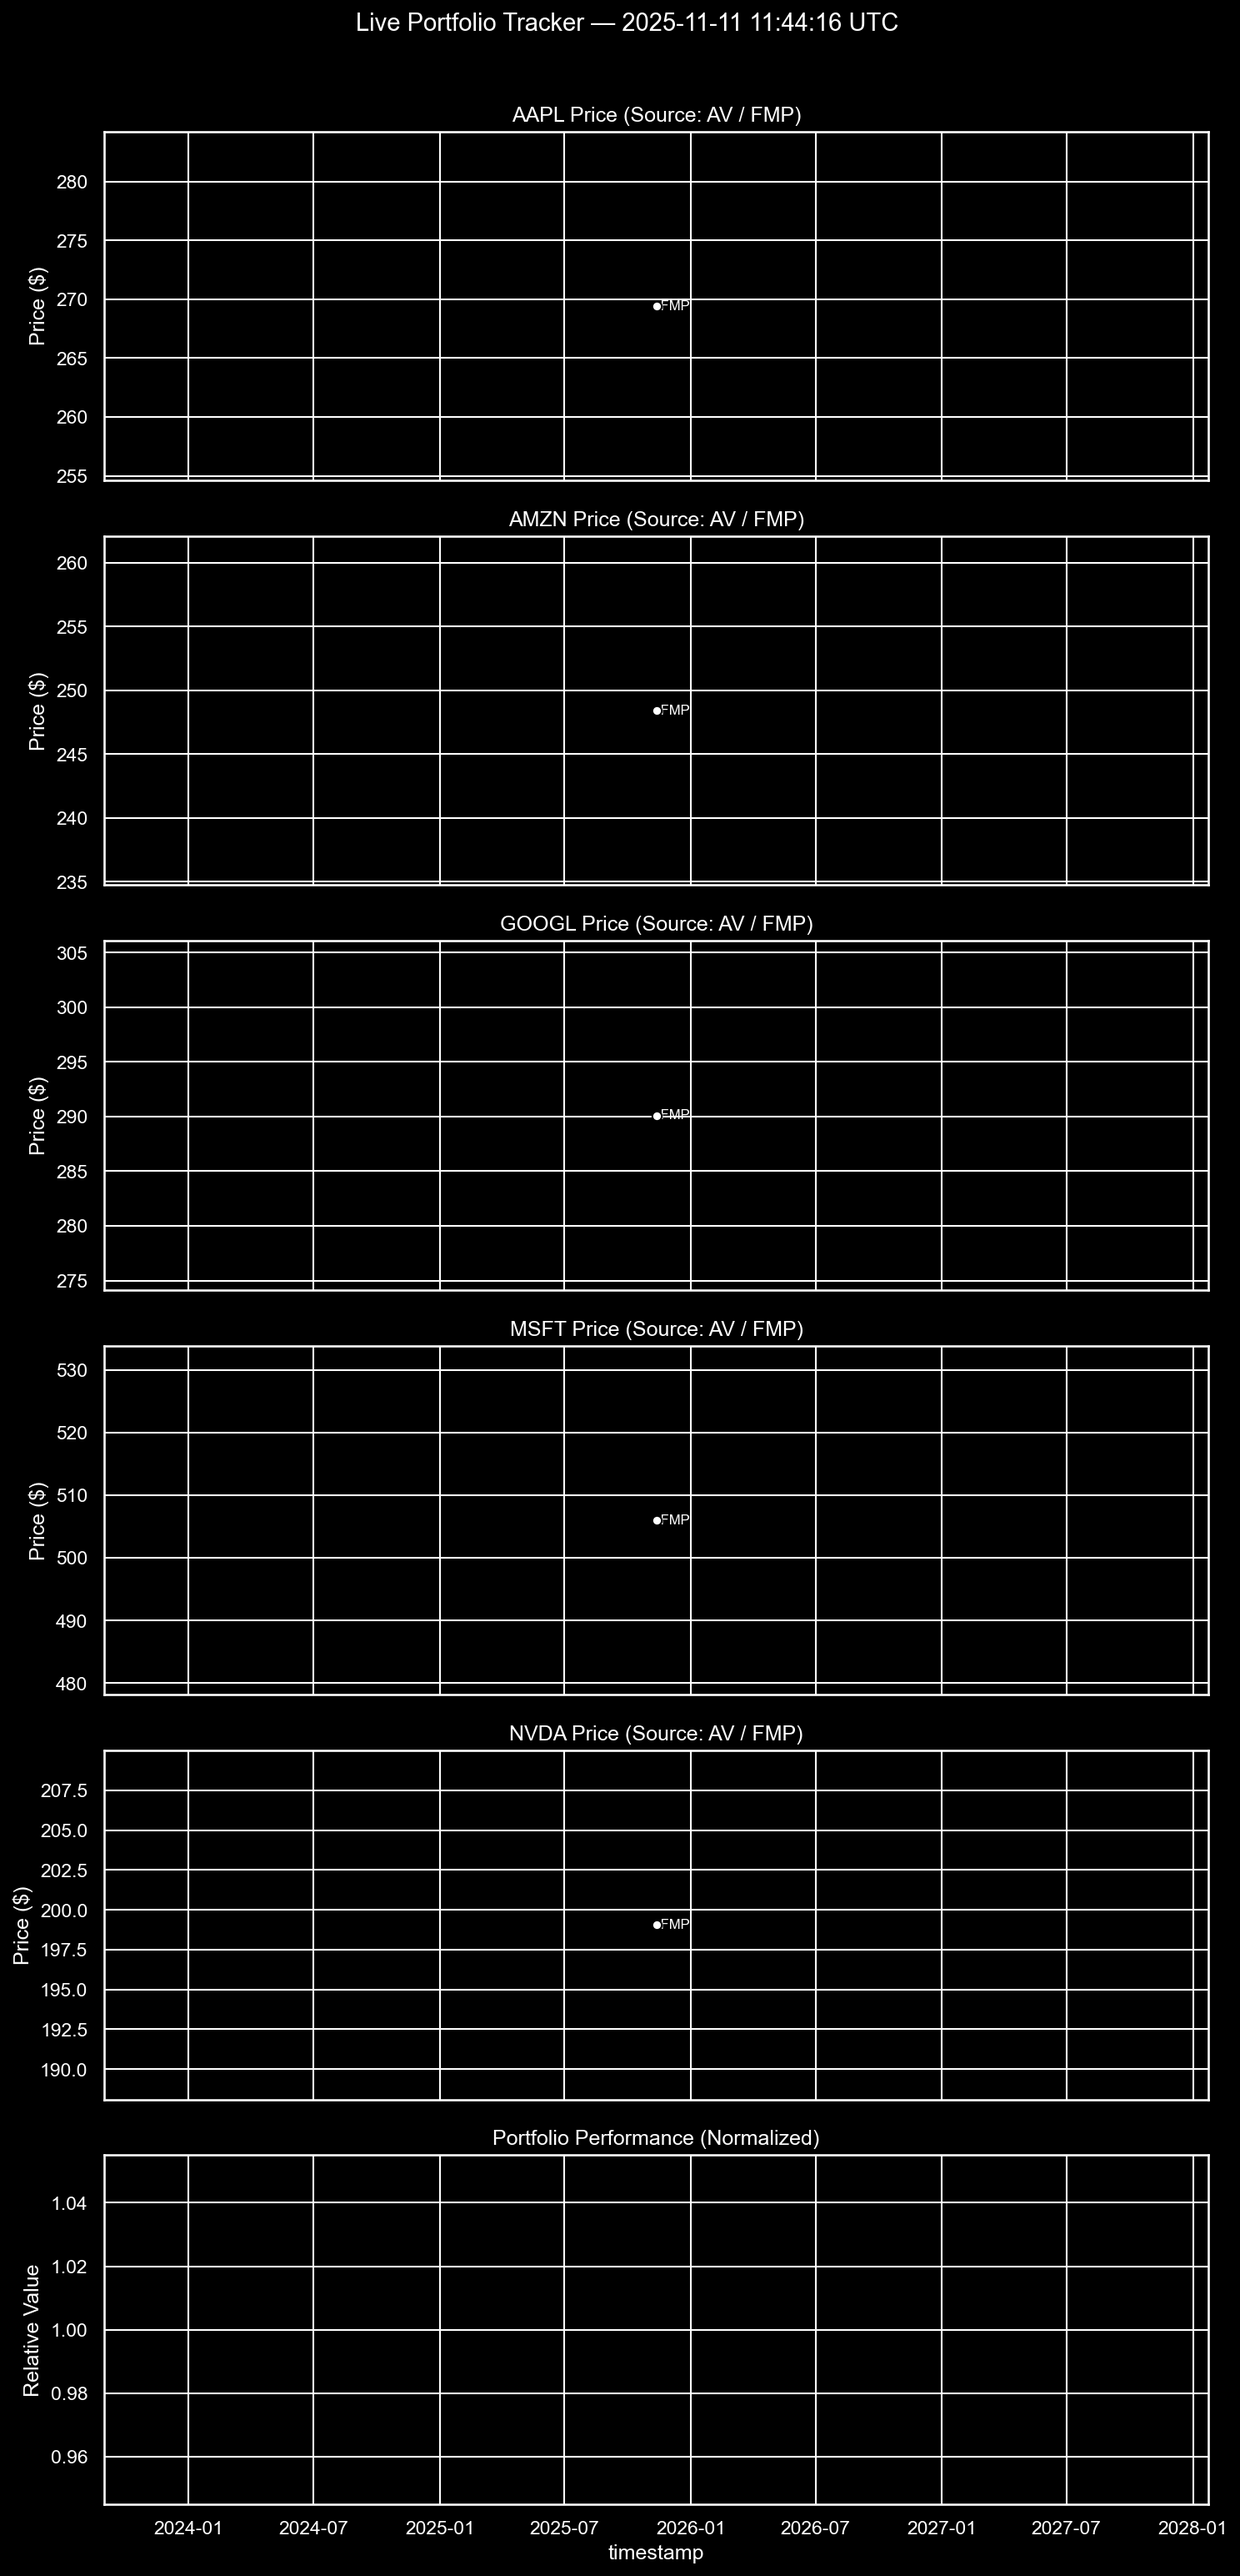
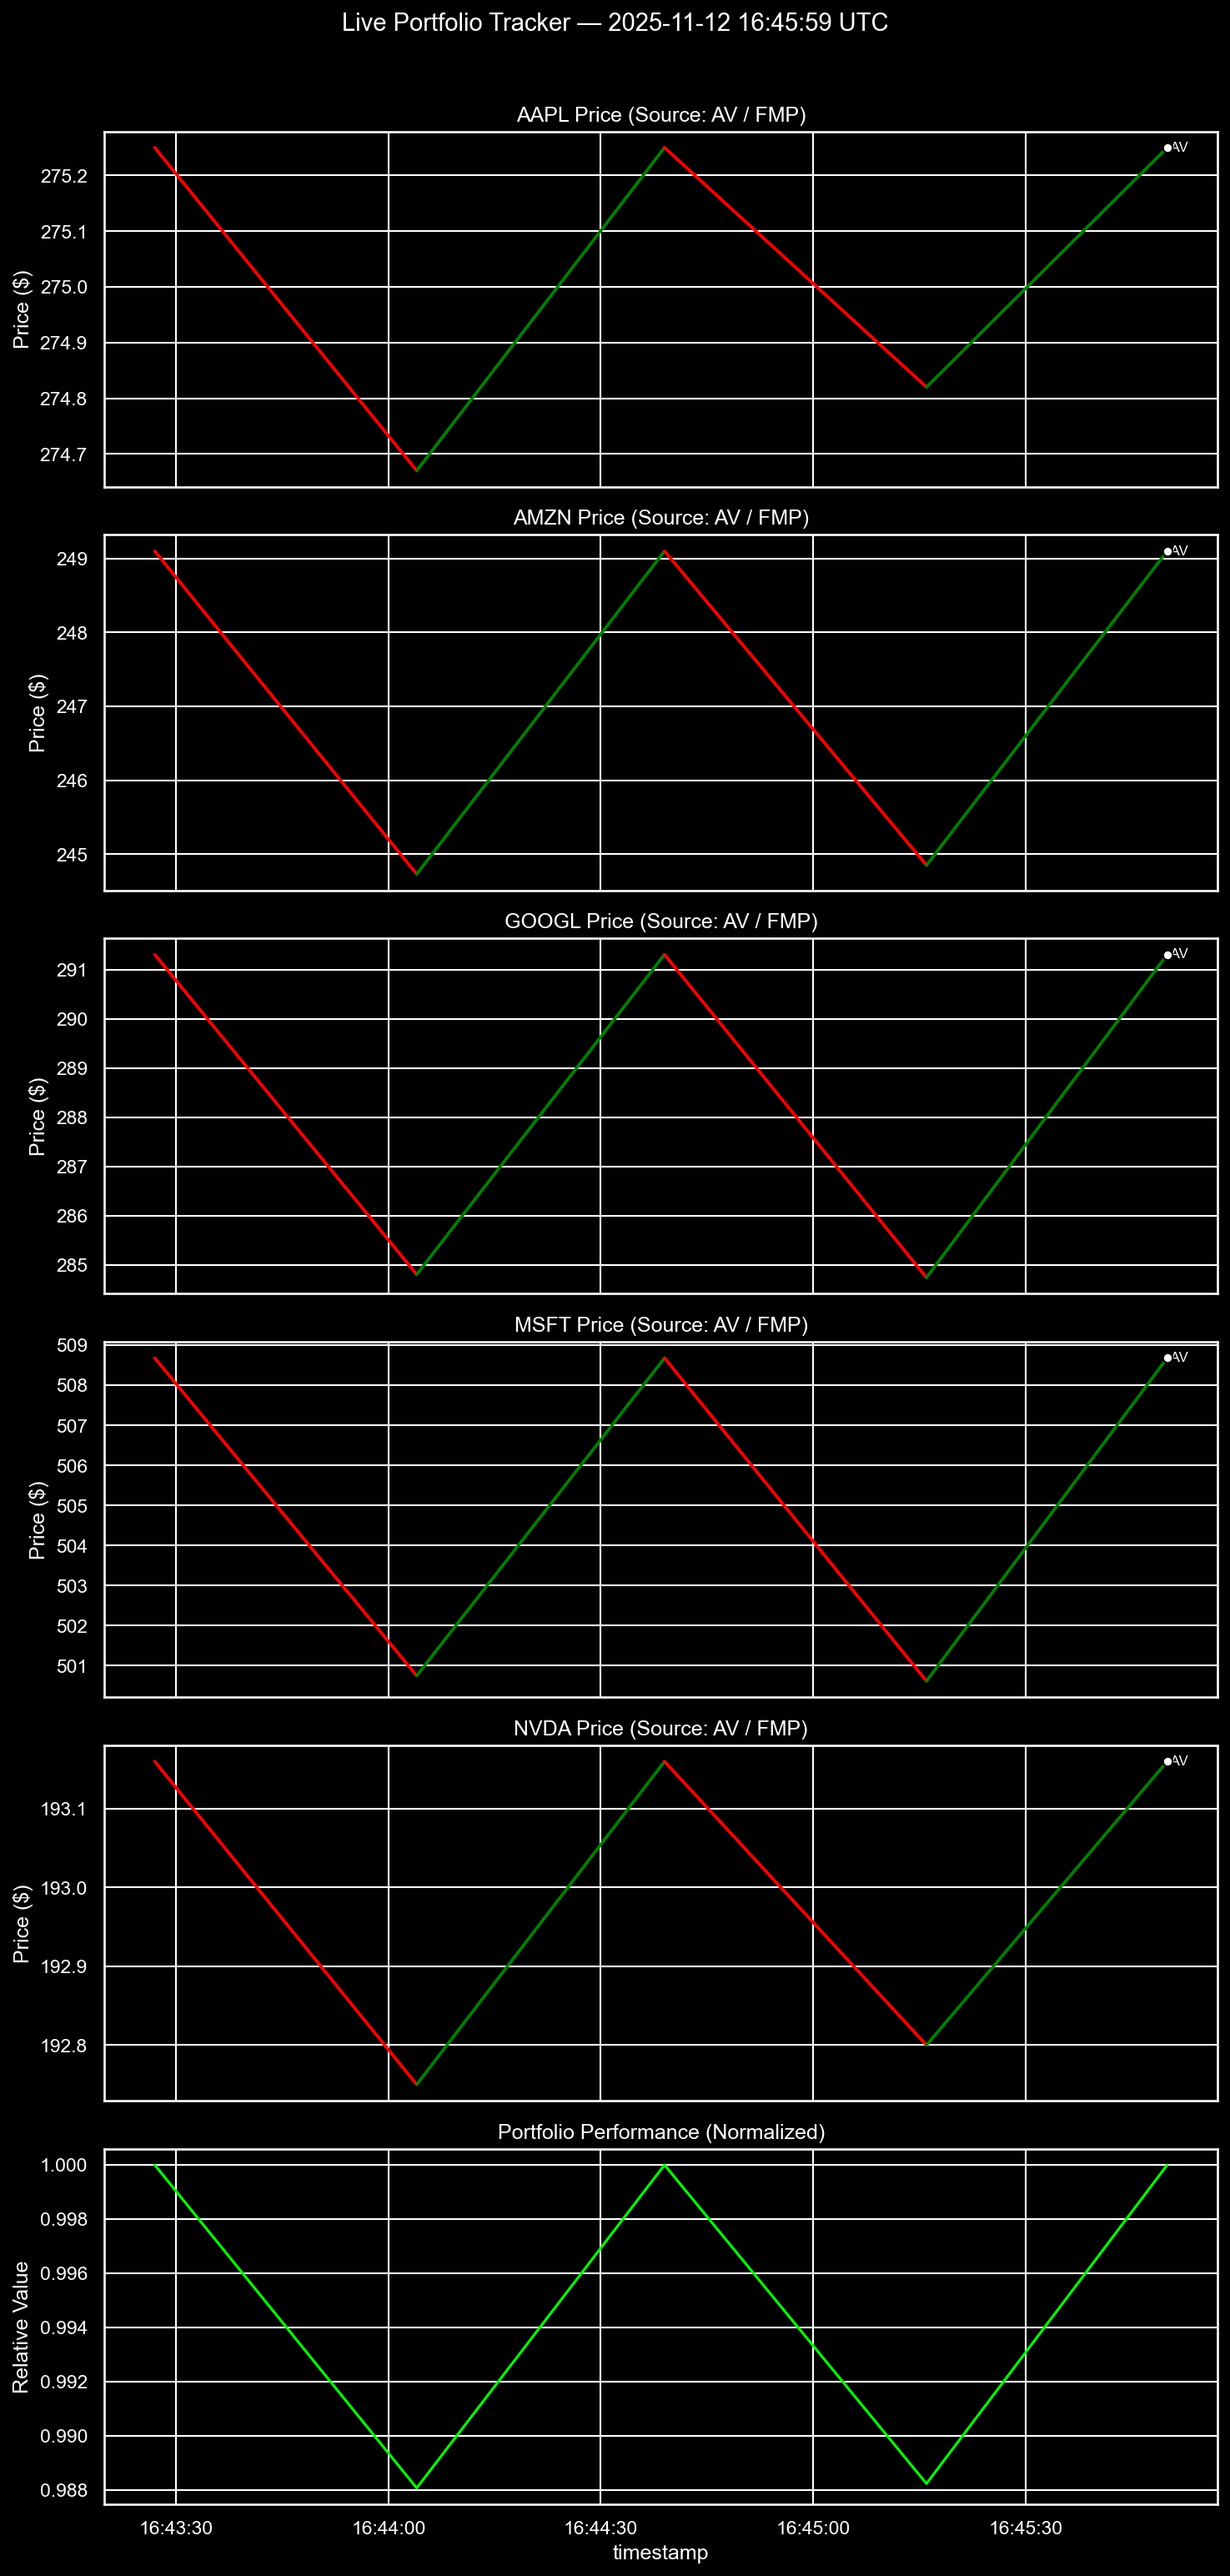
Adding rotation across different APIs

diff --git a/out/dashboard.html b/out/dashboard.html
@@ -28,7 +28,7 @@
 </head>
 <body>
     <h1>📊 Live Portfolio Dashboard</h1>
-    <img src="portfolio_live.png?t=1762801297.749586" alt="Portfolio Plot">
-    <div class="timestamp">Last refreshed: 2025-11-10 20:01:37 UTC</div>
+    <img src="portfolio_live.png?t=1762962362.402534" alt="Portfolio Plot">
+    <div class="timestamp">Last refreshed: 2025-11-12 16:46:02 UTC</div>
 </body>
 </html>

diff --git a/extract.py b/extract.py
@@ -4,106 +4,147 @@ from datetime import datetime
 import pandas as pd
 from dotenv import load_dotenv
 import requests
+import yfinance as yf
 
-# Load API keys
 load_dotenv()
 AV_API_KEY = os.getenv("ALPHAVANTAGE_API_KEY")
 FMP_API_KEY = os.getenv("FMP_API_KEY")
+FINNHUB_API_KEY = os.getenv("FINNHUB_API_KEY")
+TWELVE_API_KEY = os.getenv("TWELVE_API_KEY")
 
-# Portfolio
 tickers = ["AAPL", "MSFT", "GOOGL", "AMZN", "NVDA"]
 output_file = "portfolio_quotes.csv"
 
-# Clear previous data
 if os.path.exists(output_file):
     os.remove(output_file)
-    print(f"Previous output file '{output_file}' removed. Starting fresh session.")
+    print(f"Previous output file '{output_file}' removed.")
 else:
     print("No existing data found. Starting new session.")
 
-# Alpha Vantage fetcher
-def fetch_av_quote(symbol: str):
-    url = (
-        f"https://www.alphavantage.co/query"
-        f"?function=GLOBAL_QUOTE&symbol={symbol}&apikey={AV_API_KEY}"
-    )
-    resp = requests.get(url)
-    resp.raise_for_status()
-    data = resp.json().get("Global Quote", {})
+def fetch_av(symbol):
+    url = f"https://www.alphavantage.co/query?function=GLOBAL_QUOTE&symbol={symbol}&apikey={AV_API_KEY}"
+    r = requests.get(url, timeout=10)
+    r.raise_for_status()
+    data = r.json().get("Global Quote", {})
     if not data or "05. price" not in data:
-        raise ValueError("Invalid or empty response from Alpha Vantage")
+        raise ValueError("Empty AV response")
     return float(data["05. price"])
 
-# Financial Modeling Prep (stable endpoint)
-def fetch_fmp_quotes(symbols):
+def fetch_fmp(symbols):
     prices = {}
-    for symbol in symbols:
-        url = (
-            f"https://financialmodelingprep.com/stable/quote-short"
-            f"?symbol={symbol}&apikey={FMP_API_KEY}"
-        )
-        resp = requests.get(url)
-        resp.raise_for_status()
-        data = resp.json()
-        if not data:
-            print(f"No data returned for {symbol} from FMP.")
-            continue
-        prices[symbol] = float(data[0]["price"])
-        time.sleep(0.3)
+    for s in symbols:
+        url = f"https://financialmodelingprep.com/stable/quote-short?symbol={s}&apikey={FMP_API_KEY}"
+        r = requests.get(url, timeout=10)
+        r.raise_for_status()
+        data = r.json()
+        if data:
+            prices[s] = float(data[0]["price"])
+        time.sleep(0.15)
     return prices
 
-# Save records
+def fetch_finnhub(symbols):
+    prices = {}
+    for s in symbols:
+        url = f"https://finnhub.io/api/v1/quote?symbol={s}&token={FINNHUB_API_KEY}"
+        r = requests.get(url, timeout=10)
+        r.raise_for_status()
+        data = r.json()
+        if "c" in data and data["c"] != 0:
+            prices[s] = float(data["c"])
+        time.sleep(0.15)
+    return prices
+
+def fetch_twelvedata(symbols):
+    prices = {}
+    for s in symbols:
+        url = f"https://api.twelvedata.com/price?symbol={s}&apikey={TWELVE_API_KEY}"
+        r = requests.get(url, timeout=10)
+        r.raise_for_status()
+        data = r.json()
+        if "price" in data:
+            prices[s] = float(data["price"])
+        time.sleep(0.15)
+    return prices
+
+def fetch_yfinance(symbols):
+    prices = {}
+    for s in symbols:
+        try:
+            ticker = yf.Ticker(s)
+            p = ticker.fast_info.get("last_price")
+            if p:
+                prices[s] = float(p)
+        except Exception:
+            continue
+    return prices
+
 def append_to_csv(records):
     if not records:
         return
     df = pd.DataFrame(records)
     df.to_csv(output_file, mode="a", header=not os.path.exists(output_file), index=False)
 
-# Main alternating loop
-print(f"Starting alternating data collection for {tickers}")
-use_av = True  # Start with Alpha Vantage
+providers = [
+    ("AV", fetch_av),
+    ("FMP", fetch_fmp),
+    ("FINNHUB", fetch_finnhub),
+    ("TWELVE", fetch_twelvedata),
+    ("YF", fetch_yfinance),
+]
+
+active_providers = []
+for name, func in providers:
+    if name in ("YF",) or os.getenv(f"{name}_API_KEY"):
+        active_providers.append((name, func))
+
+if not active_providers:
+    raise RuntimeError("No valid API keys found!")
+
+print(f"Active data sources: {[p[0] for p in active_providers]}")
+print("Starting rotation...\n")
+
+provider_index = 0
+INTERVAL_BETWEEN_PROVIDERS = 6
+SLEEP_PER_STOCK_AV = 0.8
 
 try:
     while True:
         ts_str = datetime.utcnow().strftime("%Y-%m-%d %H:%M:%S")
-        source = "Alpha Vantage" if use_av else "FMP"
-        print(f"\n[{ts_str}] Fetching data from {source}...")
+        name, fetcher = active_providers[provider_index]
+        print(f"[{ts_str}] {name}")
 
         records = []
-
-        if use_av:
-            for symbol in tickers:
-                try:
-                    price = fetch_av_quote(symbol)
-                    print(f"{symbol} (AV) = ${price:.2f}")
+        try:
+            if name == "AV":
+                for s in tickers:
+                    try:
+                        price = fetcher(s)
+                        print(f"{s} ({name}) = ${price:.2f}")
+                        records.append({
+                            "timestamp": ts_str,
+                            "symbol": s,
+                            "price": price,
+                            "source": name
+                        })
+                    except Exception as e:
+                        print(f"Error {s} {name}: {e}")
+                    time.sleep(SLEEP_PER_STOCK_AV)
+            else:
+                prices = fetcher(tickers)
+                for s, price in prices.items():
+                    print(f"{s} ({name}) = ${price:.2f}")
                     records.append({
                         "timestamp": ts_str,
-                        "symbol": symbol,
+                        "symbol": s,
                         "price": price,
-                        "source": "AV"
+                        "source": name
                     })
-                except Exception as e:
-                    print(f"Error fetching {symbol} from AV: {e}")
-                time.sleep(1.2)  # short delay between Alpha Vantage requests
-        else:
-            try:
-                prices = fetch_fmp_quotes(tickers)
-                for symbol, price in prices.items():
-                    print(f"{symbol} (FMP) = ${price:.2f}")
-                    records.append({
-                        "timestamp": ts_str,
-                        "symbol": symbol,
-                        "price": price,
-                        "source": "FMP"
-                    })
-            except Exception as e:
-                print(f"Error fetching from FMP: {e}")
+        except Exception as e:
+            print(f"Provider {name} failed: {e}")
 
         append_to_csv(records)
-        print(f"[{datetime.utcnow().strftime('%H:%M:%S')}] Cycle complete. Switching source in 30s...\n")
-
-        use_av = not use_av
-        time.sleep(30)
+        provider_index = (provider_index + 1) % len(active_providers)
+        time.sleep(INTERVAL_BETWEEN_PROVIDERS)
 
 except KeyboardInterrupt:
     print("Stopped by user.")
